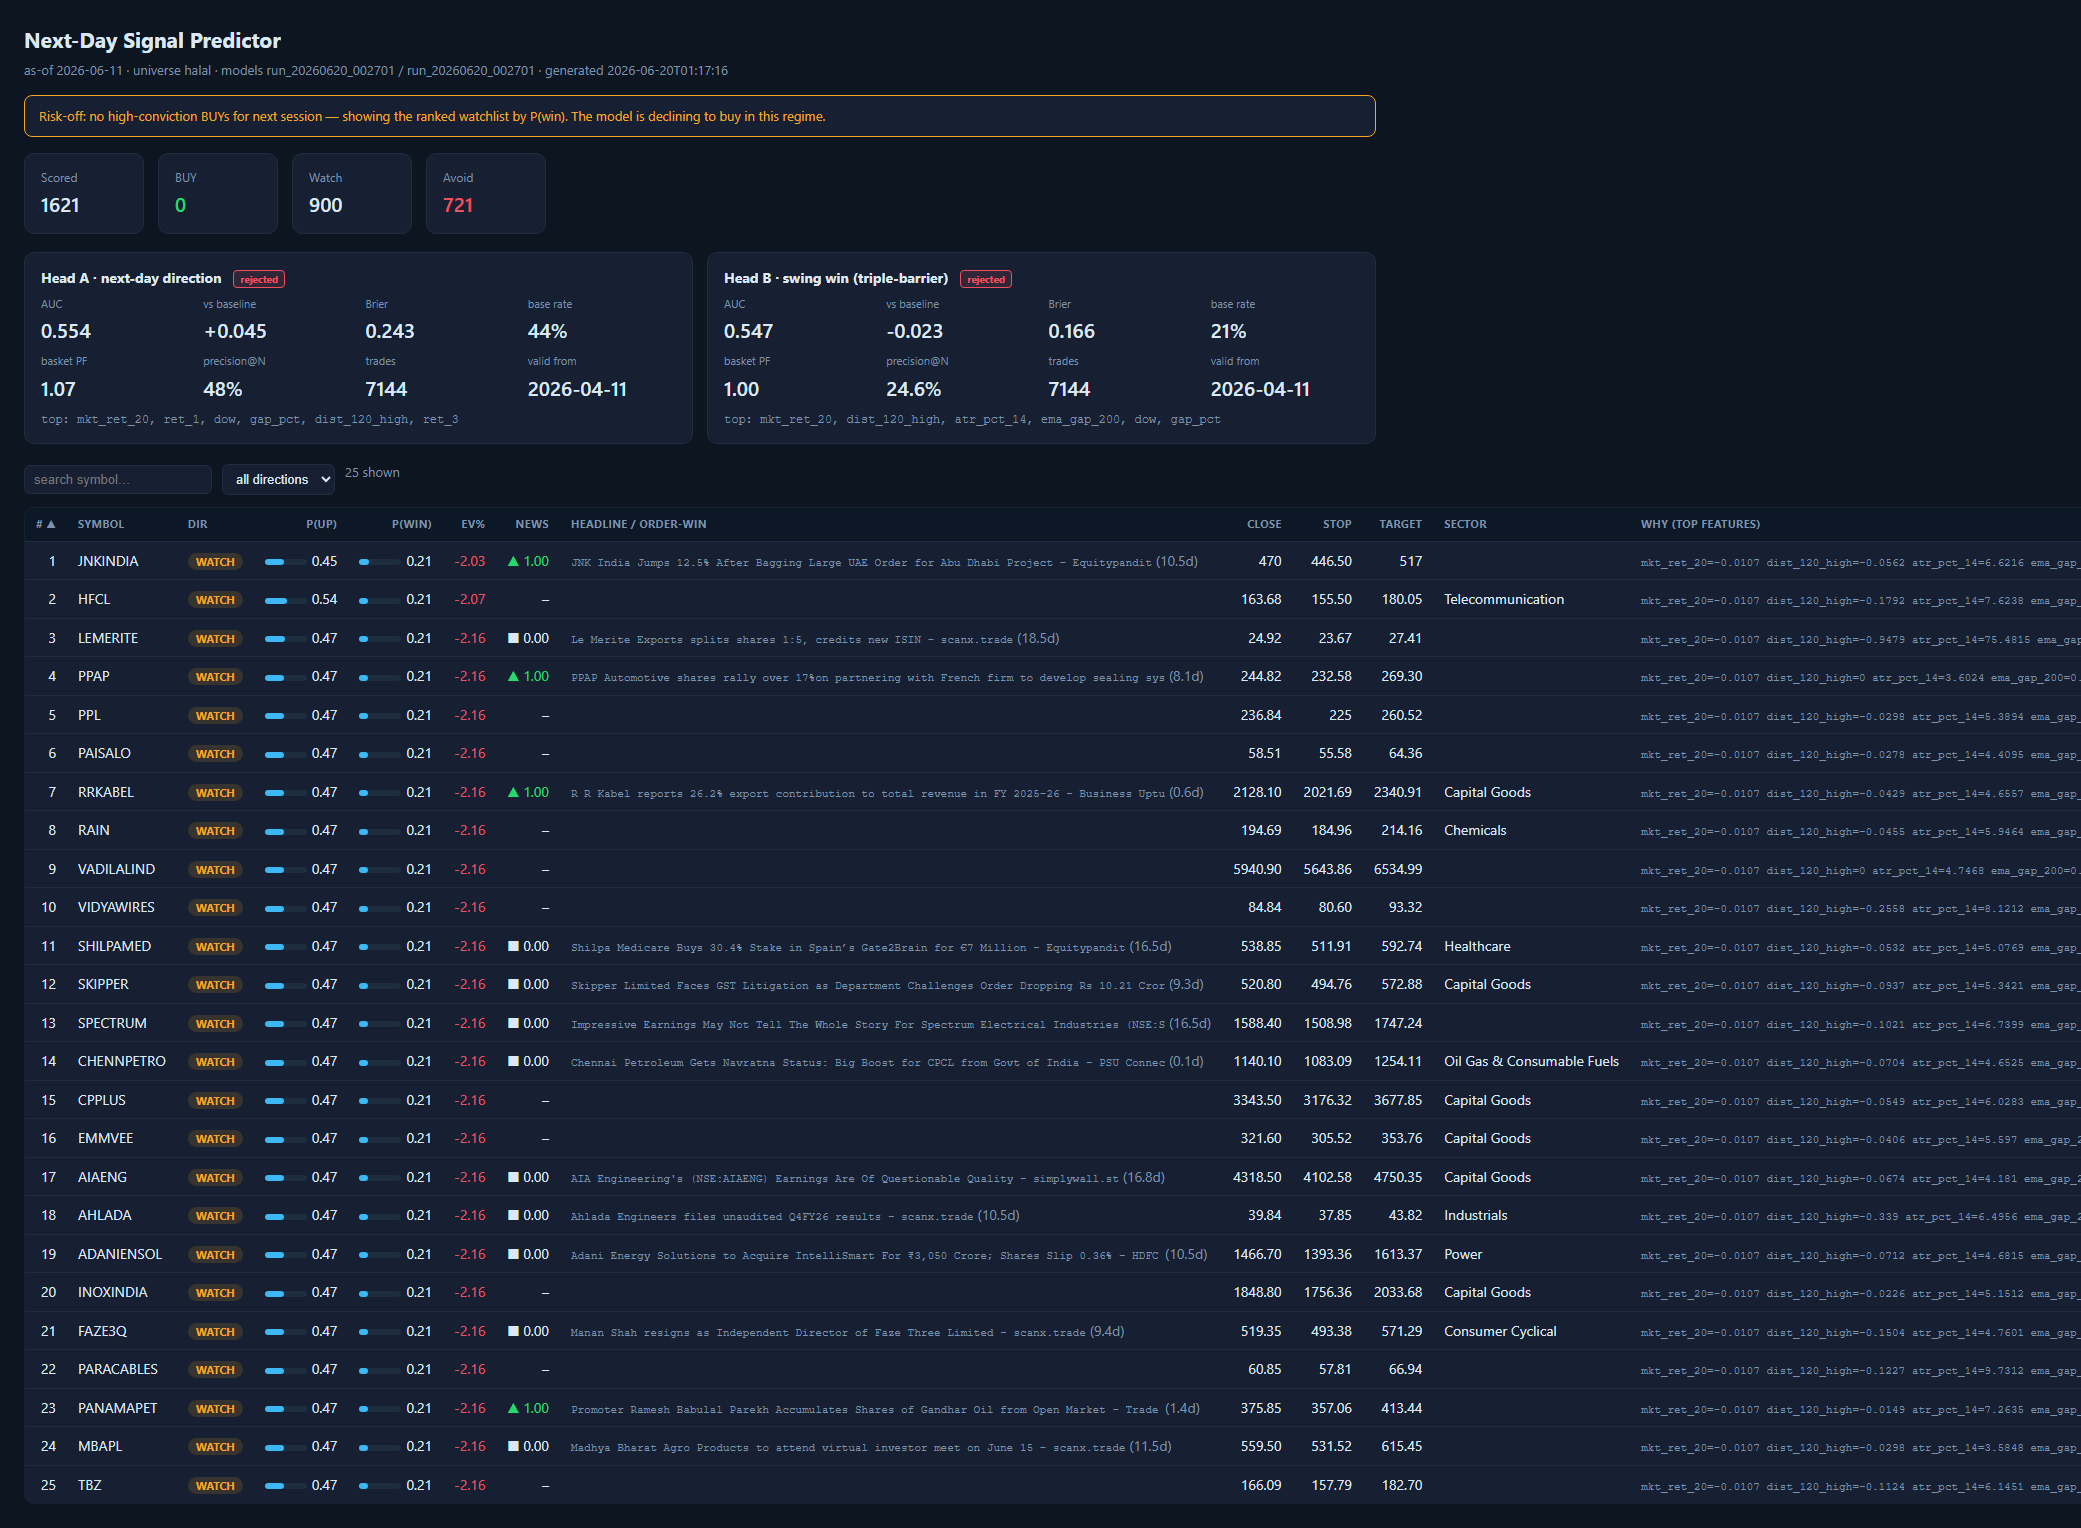
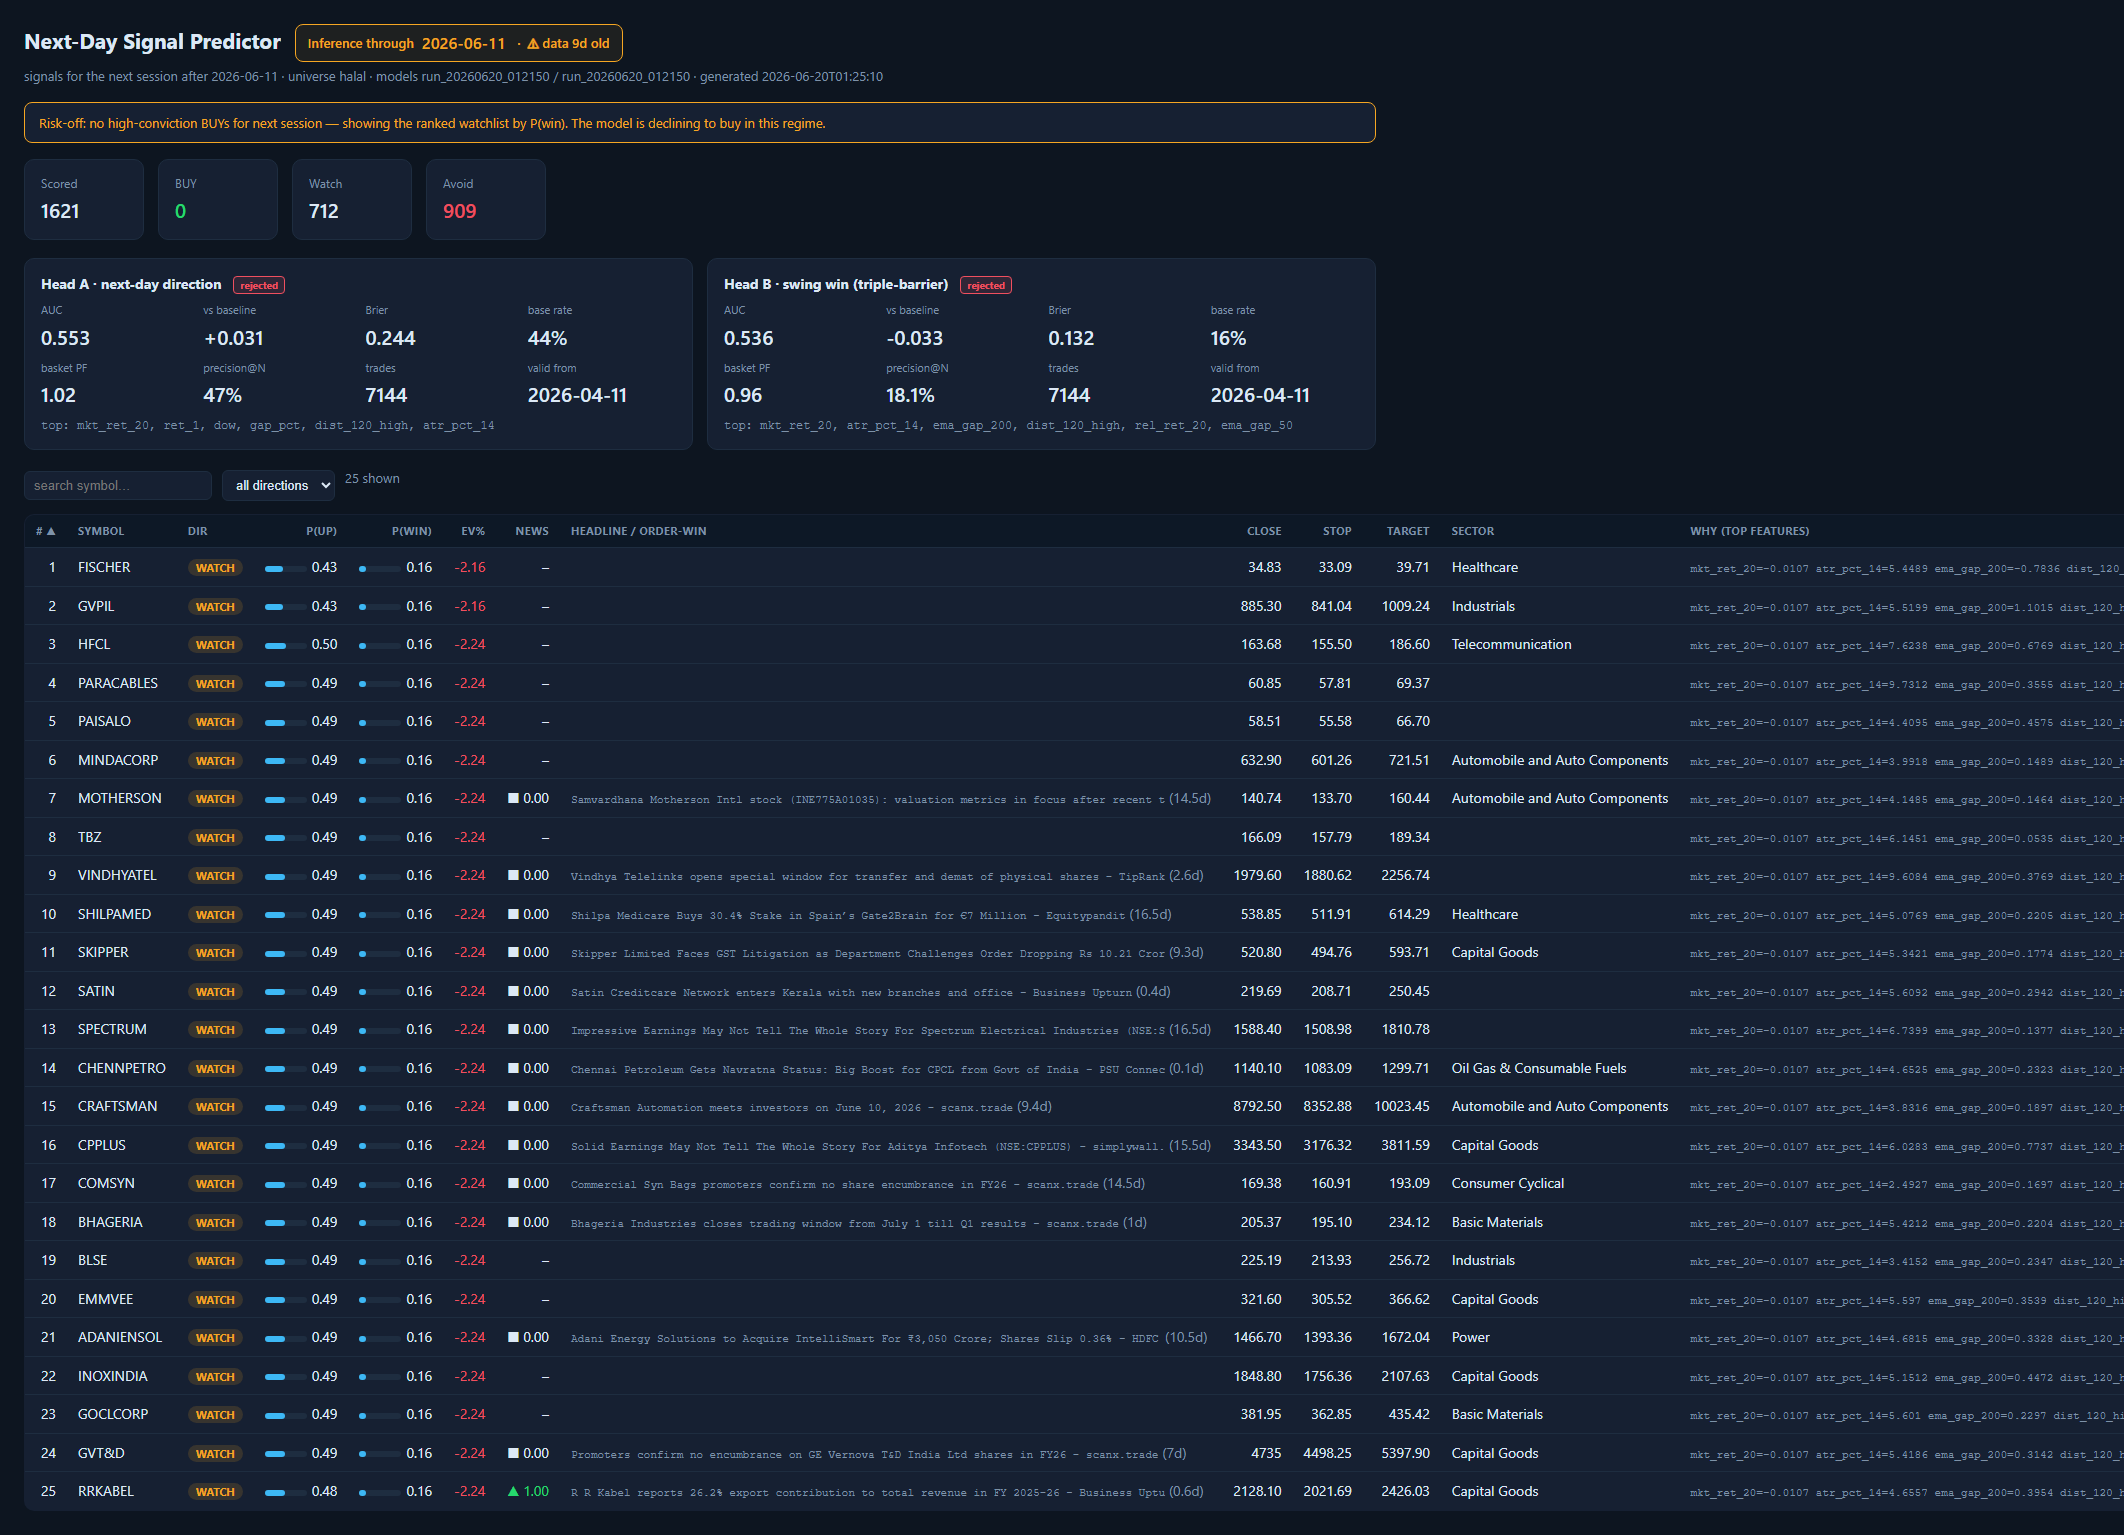
Show inference-through date prominently on predictor dashboard
Add a header date chip next to the title: "Inference through <last-bar-date>"
with a staleness flag (amber ⚠ "data Nd old") when the last bar is >3 days
behind the generated date. Subtitle clarifies signals are for the next session
after that date. Makes it unambiguous how current the predictions are — the
cached bars currently end 2026-06-11 (9 days stale), which the chip now surfaces.

diff --git a/scripts/build_predictor_report.py b/scripts/build_predictor_report.py
@@ -61,6 +61,12 @@ _TEMPLATE = r"""<!doctype html>
   body { margin:0; background:var(--bg); color:var(--txt);
          font:14px/1.5 -apple-system,Segoe UI,Roboto,sans-serif; padding:24px; }
   h1 { margin:0 0 4px; font-size:21px; } .sub { color:var(--mut); font-size:13px; margin-bottom:16px; }
+  .hdr { display:flex; align-items:center; gap:14px; flex-wrap:wrap; margin-bottom:4px; }
+  .datechip { display:inline-flex; align-items:center; gap:8px; padding:6px 12px;
+              border-radius:8px; border:1px solid var(--accent); background:rgba(61,184,245,.08);
+              font-size:13px; color:var(--accent); font-weight:600; }
+  .datechip .dt { font-size:16px; font-variant-numeric:tabular-nums; }
+  .datechip.stale { border-color:var(--watch); background:rgba(245,166,35,.08); color:var(--watch); }
   .banner { padding:10px 14px; border-radius:8px; margin-bottom:16px; font-size:13px;
             border:1px solid var(--line); background:var(--card); }
   .banner.warn { border-color:var(--watch); color:var(--watch); }
@@ -93,7 +99,7 @@ _TEMPLATE = r"""<!doctype html>
   .pbar { display:inline-block; width:42px; height:6px; background:var(--line); border-radius:3px; vertical-align:middle; margin-right:5px; }
   .pbar > i { display:block; height:100%; border-radius:3px; background:var(--accent); }
 </style></head><body>
-<h1>Next-Day Signal Predictor</h1>
+<div class="hdr"><h1>Next-Day Signal Predictor</h1><span id="datechip" class="datechip"></span></div>
 <div class="sub" id="sub"></div>
 <div id="banner"></div>
 <div class="row" id="kpis"></div>
@@ -173,8 +179,19 @@ function modelCard(head){
 }
 
 (function init(){
+  // Prominent "inference through" date + staleness flag (data date vs generated date).
+  const gen = (sig.generated||"").slice(0,10);
+  let ageDays = null;
+  if(sig.date && gen){ ageDays = Math.round((new Date(gen) - new Date(sig.date))/86400000); }
+  const chip = document.getElementById("datechip");
+  const stale = ageDays!=null && ageDays > 3;
+  chip.className = "datechip" + (stale ? " stale" : "");
+  chip.innerHTML = `Inference through <span class="dt">${sig.date||"–"}</span>`
+    + (ageDays!=null ? ` &nbsp;·&nbsp; ${stale?"⚠ ":""}data ${ageDays}d old` : "");
+  chip.title = `Last bar used for inference: ${sig.date}. Signals are for the NEXT trading session after this date.`
+    + (stale ? `\nData is ${ageDays} days old — refresh the bar cache (bulk_fetch.py) before trusting these.` : "");
   document.getElementById("sub").textContent =
-    `as-of ${sig.date} · universe ${sig.universe} · models ${Object.values(sig.model_runs||{}).join(" / ")} · generated ${sig.generated}`;
+    `signals for the next session after ${sig.date} · universe ${sig.universe} · models ${Object.values(sig.model_runs||{}).join(" / ")} · generated ${sig.generated}`;
   const c=sig.counts||{};
   const kpi=(k,v,cls)=>`<div class="card kpi"><div class="k">${k}</div><div class="v ${cls||''}">${v}</div></div>`;
   document.getElementById("kpis").innerHTML =
